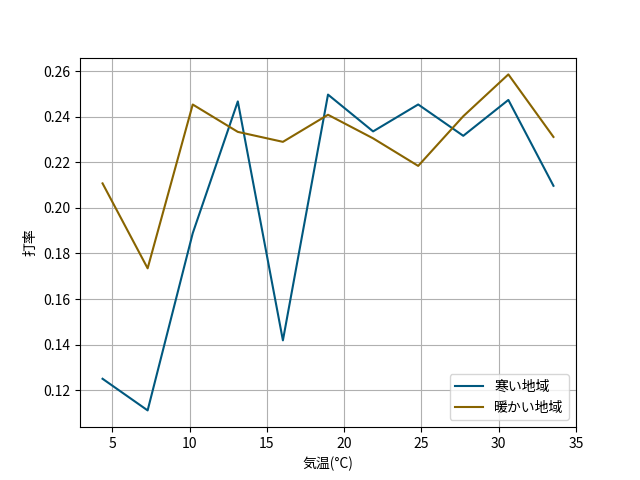
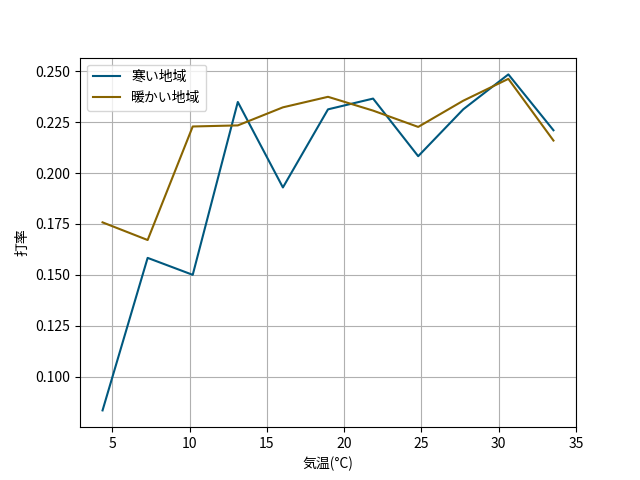
10 Teams

diff --git a/Code/Ver2/Analyze.py b/Code/Ver2/Analyze.py
@@ -8,9 +8,21 @@ import warnings
 
 warnings.simplefilter(action='ignore', category=FutureWarning)
 
+plt.rcParams['font.family'] = 'sans-serif'
+plt.rcParams['font.sans-serif'] = ['Noto Sans JP', 'DejaVu Sans', 'Arial']
+
 playerDF = pd.read_csv("players2.csv")
 
-teamNames = {"Hiroshima": "広島東洋カープ", "Hokkaido": "北海道日本ハムファイターズ", "Fukuoka": "福岡ソフトバンクホークス", "Hanshin": "阪神タイガース", "Yomiuri": "読売ジャイアンツ"}
+teamNames = {"Hiroshima": "広島東洋カープ",
+             "Hokkaido": "北海道日本ハムファイターズ",
+             "Fukuoka": "福岡ソフトバンクホークス",
+             "Hanshin": "阪神タイガース",
+             "Yomiuri": "読売ジャイアンツ",
+             "DeNA": "横浜DeNAベイスターズ",
+             "Yakult": "東京ヤクルトスワローズ",
+             "Chiba": "千葉ロッテマリーンズ",
+             "Rakuten": "東北楽天ゴールデンイーグルス",
+             "Saitama": "埼玉西武ライオンズ"}
 
 with open("analyze.csv", mode = "w", encoding = "utf-8", newline='') as file:
     writer = csv.writer(file, quoting = csv.QUOTE_NONE, delimiter='\t', escapechar='\t')
@@ -21,10 +33,6 @@ with open("analyze.csv", mode = "w", encoding = "utf-8", newline='') as file:
 
         gameDF = pd.read_csv(f"game{key}.csv")
         gameTimeDF = pd.read_csv(f"gameTime{key}.csv")
-
-        # old format
-        # gameTimeDF["開始時間"] = gameTimeDF["時間帯"].str[:2].astype(int)
-        # gameTimeDF["終了時間"] = gameTimeDF["時間帯"].str[5:].astype(int)
 
         environmentGameDF = pd.DataFrame(columns = environmentDF.columns)
 
@@ -57,20 +65,6 @@ with open("analyze.csv", mode = "w", encoding = "utf-8", newline='') as file:
                 continue
 
             area = playerDF.loc[(playerDF["名前"] == currentName) & (playerDF["チーム"] == value)].エリア
-            
-            # Obsolete
-            # found = False
-            # for i in range(len(playersHitRateToTemp)):
-            #     if (currentName in playersHitRateToTemp[i]):
-            #         found = True
-            #         foundIndex = i
-            #         break
-
-            # if (found):
-            #     playersHitRateToTemp[foundIndex][1].append(currentHitRate)
-            #     playersHitRateToTemp[foundIndex][2].append(currentAvgTemp)
-            # else:
-            #     playersHitRateToTemp.append([currentName, [currentHitRate], [currentAvgTemp]])
 
             writer.writerow([f"{area.iloc[0]},{currentHitRate},{currentAvgTemp}"])
 
@@ -84,10 +78,6 @@ for key, value in teamNames.items():
 
         gameDF = pd.read_csv(f"game{key}.csv")
         gameTimeDF = pd.read_csv(f"gameTime{key}.csv")
-
-        # Old format
-        # gameTimeDF["開始時間"] = gameTimeDF["時間帯"].str[:2].astype(int)
-        # gameTimeDF["終了時間"] = gameTimeDF["時間帯"].str[5:].astype(int)
 
         environmentGameDF = pd.DataFrame(columns = environmentDF.columns)
 
@@ -161,11 +151,10 @@ for binCount in range(4, 24, 2):
     hitRate2Avgs = np.array([np.mean(hitRate2[hitRate2Assigned == i]) for i in range(1, len(bins))])
 
     plt.clf()
-    plt.plot(centers, hitRate0Avgs, color = "#00587E", label = "Cold")
-    plt.plot(centers, hitRate1Avgs, color = "#886400", label = "Warm")
-    # plt.plot(centers, hitRate2Avgs, color = "#575757", label = "Foreign")
-    plt.xlabel("Temp")
-    plt.ylabel("Hit Rate")
+    plt.plot(centers, hitRate0Avgs, color = "#00587E", label = "寒い地域")
+    plt.plot(centers, hitRate1Avgs, color = "#886400", label = "暖かい地域")
+    plt.xlabel("気温(°C)")
+    plt.ylabel("打率")
     plt.grid(True)
     plt.legend()
     plt.savefig(f"Analyze_{binCount}Bins.png")
@@ -173,8 +162,8 @@ for binCount in range(4, 24, 2):
 for binCount in range(4, 41, 4):
     plt.clf()
     plt.hist([temp0, temp1], bins = binCount, color = ["#00587E", "#886400"])
-    plt.xlabel("Temp")
-    plt.ylabel("Data")
+    plt.xlabel("気温(°C)")
+    plt.ylabel("サンプル数")
     plt.savefig(f"Analyze_DataCount_{binCount}Bins.png")
 
 for key, value in teamNames.items():
@@ -216,11 +205,10 @@ for key, value in teamNames.items():
         hitRate2Avgs = np.array([np.mean(hitRate2[hitRate2Assigned == i]) for i in range(1, len(bins))])
 
         plt.clf()
-        plt.plot(centers, hitRate0Avgs, color = "#00587E", label = "Cold")
-        plt.plot(centers, hitRate1Avgs, color = "#886400", label = "Warm")
-        # plt.plot(centers, hitRate2Avgs, color = "#575757", label = "Foreign")
-        plt.xlabel("Temp")
-        plt.ylabel("Hit Rate")
+        plt.plot(centers, hitRate0Avgs, color = "#00587E", label = "寒い地域")
+        plt.plot(centers, hitRate1Avgs, color = "#886400", label = "暖かい地域")
+        plt.xlabel("気温(°C)")
+        plt.ylabel("打率")
         plt.grid(True)
         plt.legend()
         plt.savefig(f"Analyze_{key}_{binCount}Bins.png")
@@ -228,6 +216,6 @@ for key, value in teamNames.items():
     for binCount in range(4, 41, 4):
         plt.clf()
         plt.hist([temp0, temp1], bins = binCount, color = ["#00587E", "#886400"])
-        plt.xlabel("Temp")
-        plt.ylabel("Data")
+        plt.xlabel("気温(°C)")
+        plt.ylabel("サンプル数")
         plt.savefig(f"Analyze_{key}_DataCount_{binCount}Bins.png")

diff --git a/Code/Ver2/AssignArea.py b/Code/Ver2/AssignArea.py
@@ -20,6 +20,3 @@ with open("players.csv", mode = "w", encoding = "utf-8", newline='') as file:
         i += 1
         print(player.地域, len(player.地域))
         writer.writerow([f"{player.名前},{player.チーム},{player.地域},{val}"])
-
-print(playersDF)
-        
